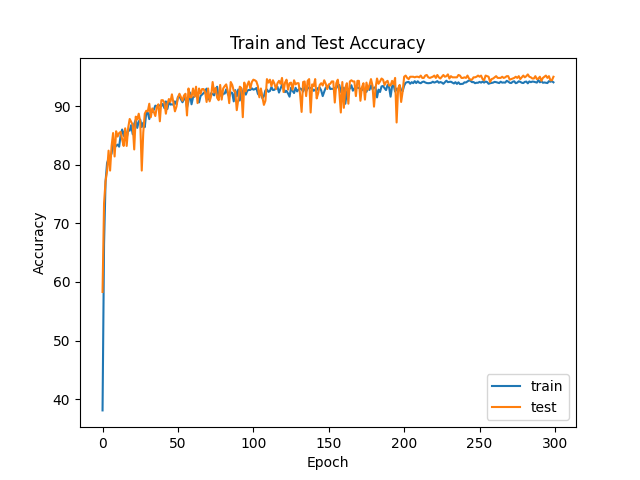
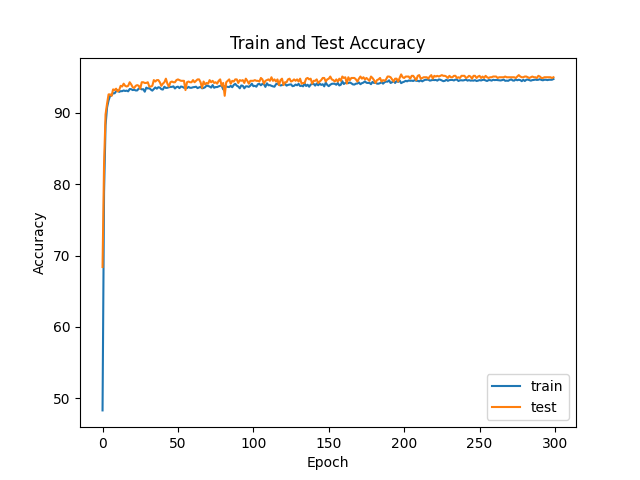
Scaled NN inputs

diff --git a/Classification/NeuralNetwork.py b/Classification/NeuralNetwork.py
@@ -6,7 +6,7 @@ import torch.optim as optim
 from torch.optim.lr_scheduler import StepLR
 import torch.nn as nn
 from sklearn.model_selection import train_test_split
-from sklearn.preprocessing import OneHotEncoder
+from sklearn.preprocessing import MinMaxScaler
 from sklearn.metrics import f1_score, precision_score, recall_score, confusion_matrix, ConfusionMatrixDisplay
 from NeuralNetworkModel import TorchDataset, NeuralNetwork
 import matplotlib.pyplot as plt
@@ -30,11 +30,23 @@ data['Air Quality'] = data['Air Quality'].replace(AQ_dict)
 X_train, X_test, y_train, y_test = train_test_split(
     data[inputs], data[target], test_size=0.2, random_state=42)
 
-# convert pandas DataFrame (X) and numpy array (y) into PyTorch tensors
-X_train = torch.tensor(X_train.values, dtype=torch.float32)
+# Scale the data for faster convergence
+scaler = MinMaxScaler()
+scaler.fit(X_train)
+X_train=scaler.transform(X_train)
+X_test=scaler.transform(X_test)
+
+# convert pandas dataframes and numpy arrays into PyTorch tensors
+X_train = torch.tensor(X_train, dtype=torch.float32)
 y_train = torch.tensor(y_train.values.squeeze(), dtype=torch.float32).type(torch.LongTensor)
-X_test = torch.tensor(X_test.values, dtype=torch.float32)
+X_test = torch.tensor(X_test, dtype=torch.float32)
 y_test = torch.tensor(y_test.values.squeeze(), dtype=torch.float32).type(torch.LongTensor)
+
+# convert pandas DataFrame (X) and numpy array (y) into PyTorch tensors
+#X_train = torch.tensor(X_train.values, dtype=torch.float32)
+#y_train = torch.tensor(y_train.values.squeeze(), dtype=torch.float32).type(torch.LongTensor)
+#X_test = torch.tensor(X_test.values, dtype=torch.float32)
+#y_test = torch.tensor(y_test.values.squeeze(), dtype=torch.float32).type(torch.LongTensor)
 
 model = NeuralNetwork(n_inputs=len(inputs),n_outputs=len(classes))
 

diff --git a/Classification/README.md b/Classification/README.md
@@ -26,7 +26,8 @@ Fits an XGBoost classifier to the air quality data with 5 fold cross validation 
 Contains classes for a pytorch dataset and a class for the basic neural network used for classification in NeuralNetwork.py
 
 ### NeuralNetwork.py
-Trains a neural network for multi-class classification of air quality data using pytorch. The model contains one hidden layer with 5 nodes and shows comparable performance to the other models achieving a 95% test accuracy in 300 epochs. A learning rate decay is applied at 200 epochs to prevent high variablity in test accuracy and to fine tune parameters.
+Trains a neural network for multi-class classification of air quality data using pytorch. The model contains one hidden layer with 5 nodes and shows comparable performance to the other models achieving a 95% test accuracy in 300 epochs. 94% accuracy was first hit at 14 epochs, however many more were needed to maximize the model's ability at 95% (not necessarily needed).
+
 ![alt text](images/NN_Confusion_Matrix_test.png "Neural Network Confusion Matrix")
 ![alt text](images/NN_accuracy.png "Neural Network Accuracy")
 ![alt text](images/NN_loss.png "Neural Network Loss")
